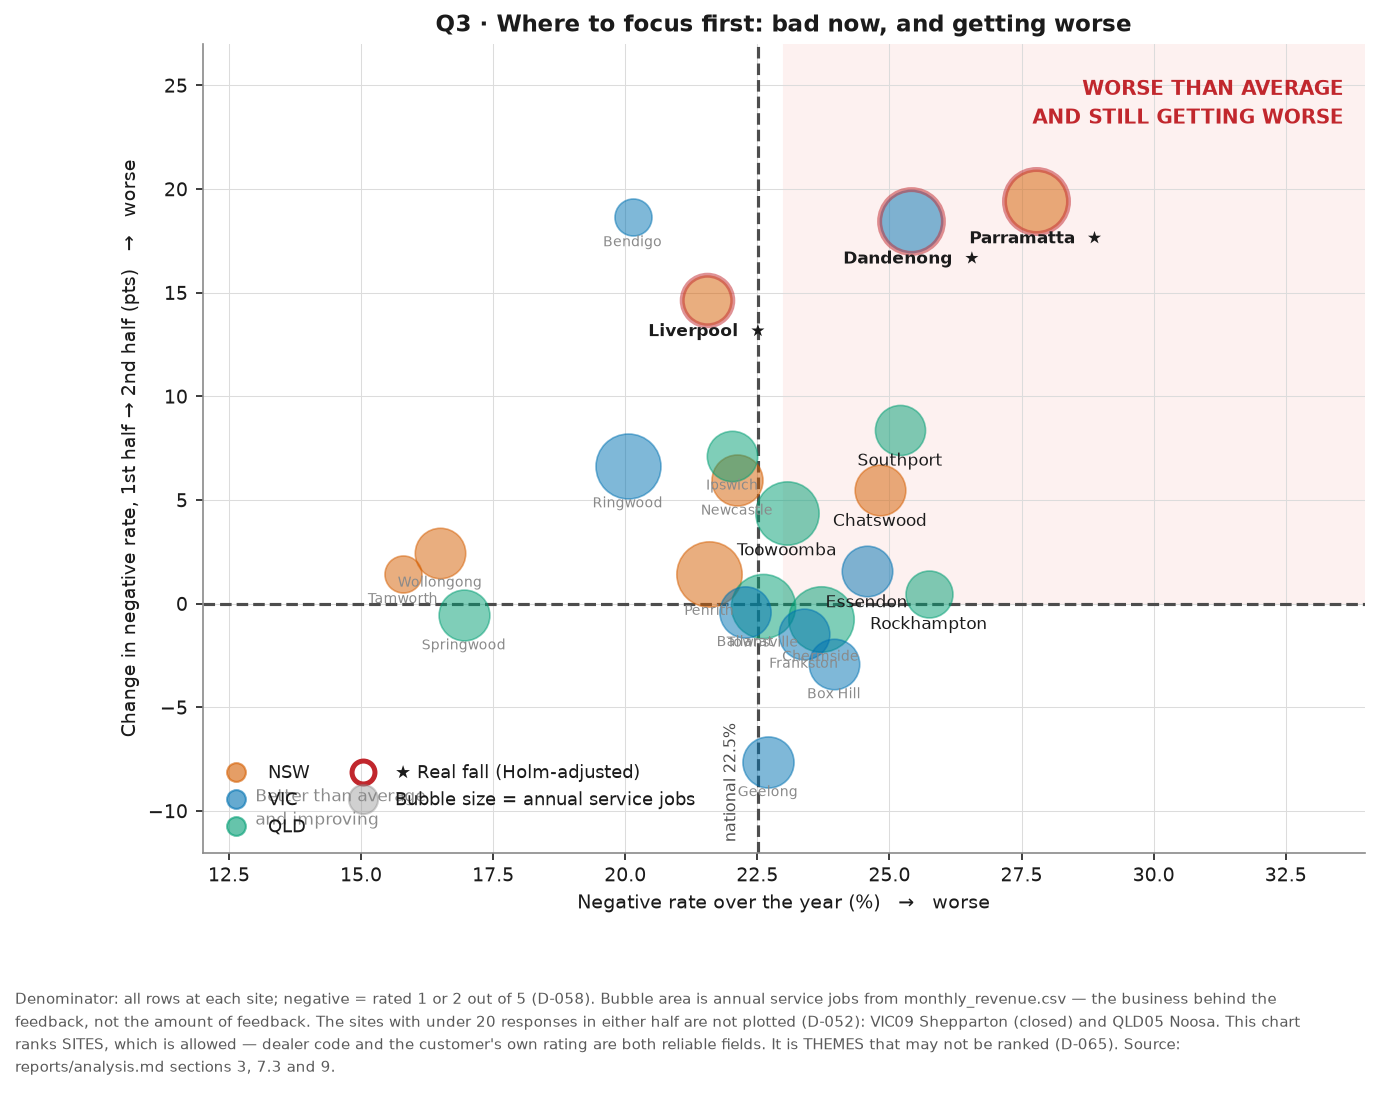
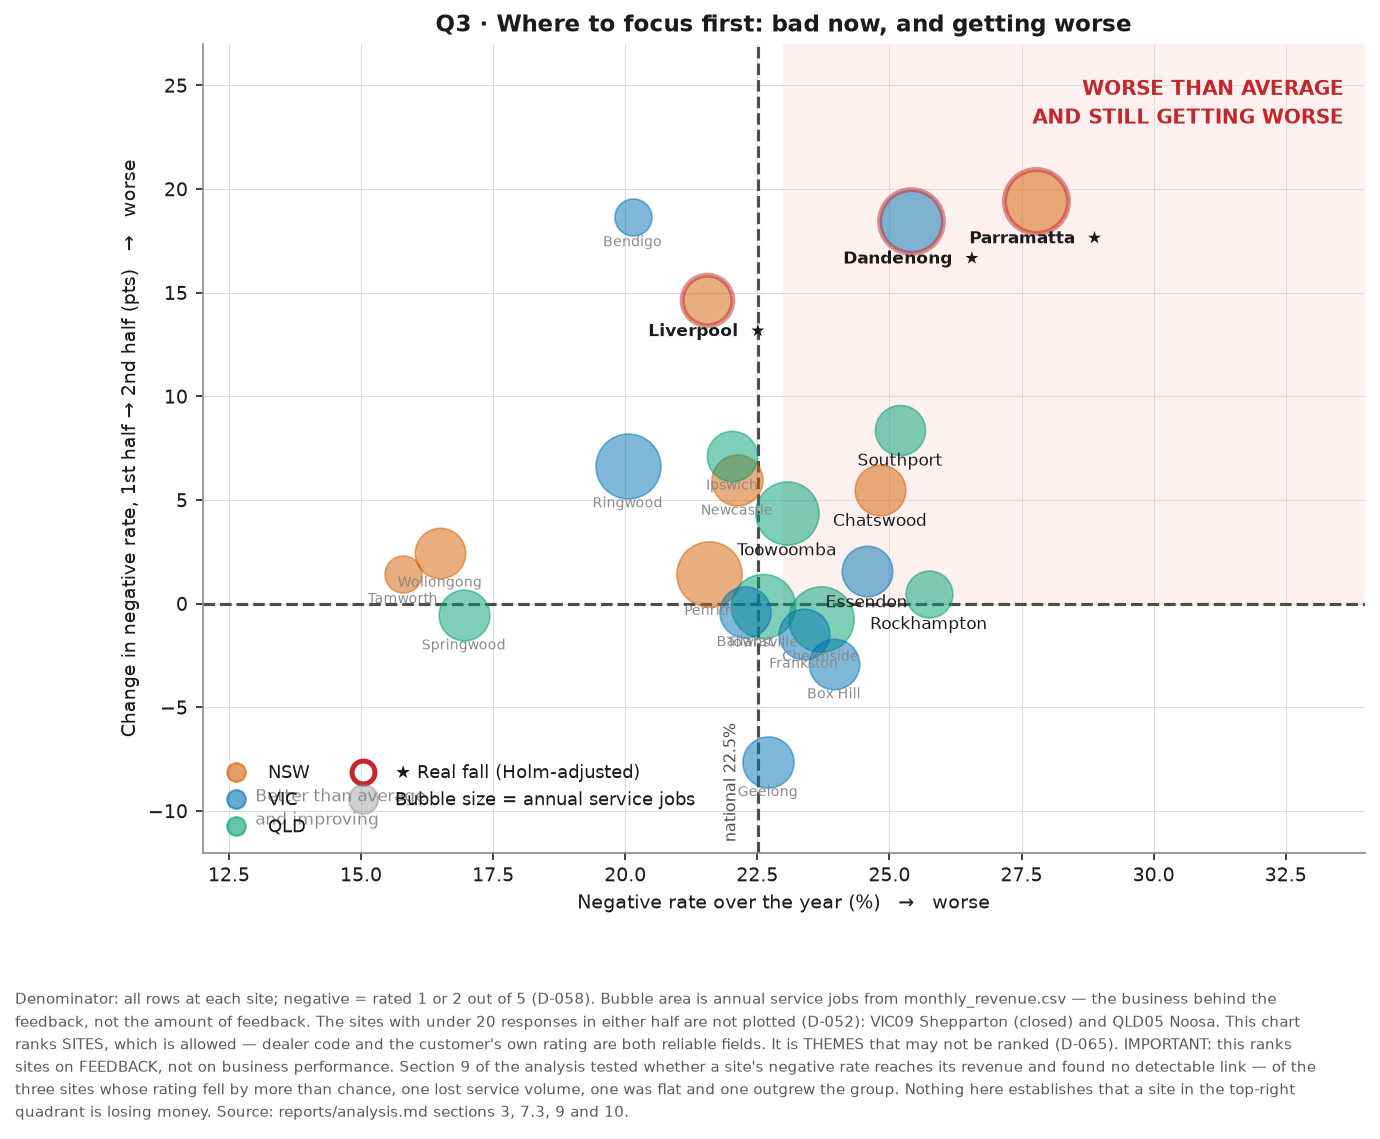
Chart the revenue null, and guard the focus chart against misreading it
Two panels in one figure, q3_feedback_vs_revenue.png, and both exist to STOP a
conclusion rather than support one.

Left: the correlation most people would reach for, across sites, r = +0.22 -
plotted first precisely because it is positive and it is site size. A busy
branch collects more feedback AND does more service work, so the across-sites
comparison cannot say a site is underperforming. The caption says so.

Right: the lag profile with 95% intervals. Every bar from -3 to +3 months
crosses zero except the same month, so this month's feedback predicts nothing
about next month's volume.

Scaled back from a planned four-panel figure on the owner's instruction: two
simple panels are enough to show whether a correlation exists, and the risk
being managed here is a false one, not an undersold one.

q3_where_to_focus.png ranks sites by negative rate and labels a quadrant
"worse than average and still getting worse", which is exactly the inference
the owner flagged as dangerous. Its footer now records that section 9 found no
detectable link between a site's negative rate and its revenue, that of the
three sites whose rating fell by more than chance one lost volume, one was flat
and one outgrew the group, and that nothing in the chart establishes a site in
that quadrant is losing money.

Also fixed: two red captions placed in axes coordinates landed in the same
strip as the wrapped footer, and a tight bounding box does not resolve that -
[…]

diff --git a/src/figures.py b/src/figures.py
@@ -15,6 +15,7 @@ should not be in the report:
 | `q2_trend_by_state.png` | the year's movement split VIC / NSW / QLD, quarterly |
 | `q2_sites_that_changed.png` | which individual sites moved, Holm-corrected across 23 tests |
 | `q3_where_to_focus.png` | bad now against getting worse, sized by the service business behind it |
+| `q3_feedback_vs_revenue.png` | is more feedback just more customers, and does it reach revenue |
 | `q3_coverage.png` | how much of the business this dataset can see at all |
 | `method_model_vs_owner.png` | how far the models can be trusted, and exactly where they disagree |
 
@@ -42,6 +43,7 @@ Usage:
 
 from __future__ import annotations
 
+import math
 import textwrap
 
 import matplotlib
@@ -53,6 +55,7 @@ import numpy as np
 import pandas as pd
 from matplotlib.lines import Line2D
 from matplotlib.patches import Patch
+from scipy import stats
 from sklearn.metrics import cohen_kappa_score, confusion_matrix
 
 from src.analyse import (
@@ -65,11 +68,14 @@ from src.analyse import (
     coverage_table,
     half_test,
     load,
+    revenue_lags,
+    revenue_panel,
     site_halves,
     state_halves,
     wilson_ci,
 )
 from src.analyse import KAPPA_FLOOR as FLOOR
+from src.analyse import _two_way_demean as two_way_demean
 from src.evaluate import ORDER, SCORE_CLASSES, SENTIMENT_CODES, llm_key, load_llm
 
 FIG_DIR = ROOT / "reports" / "figures"
@@ -722,9 +728,118 @@ def q3_where_to_focus(df: pd.DataFrame, revenue: pd.DataFrame) -> None:
         f"responses in either half are not plotted (D-052): {CLOSED_SITE} Shepparton (closed) "
         "and QLD05 Noosa. This chart ranks SITES, which is allowed — dealer code and the "
         "customer's own rating are both reliable fields. It is THEMES that may not be ranked "
-        "(D-065). Source: reports/analysis.md sections 3, 7.3 and 9.",
+        "(D-065). IMPORTANT: this ranks sites on FEEDBACK, not on business performance. "
+        "Section 9 of the analysis tested whether a site's negative rate reaches its revenue "
+        "and found no detectable link — of the three sites whose rating fell by more than "
+        "chance, one lost service volume, one was flat and one outgrew the group. Nothing "
+        "here establishes that a site in the top-right quadrant is losing money. "
+        "Source: reports/analysis.md sections 3, 7.3, 9 and 10.",
     )
     _save(fig, "q3_where_to_focus.png")
+
+
+def q3_feedback_vs_revenue(df: pd.DataFrame, revenue: pd.DataFrame) -> None:
+    """Two panels, and both of them exist to STOP a conclusion rather than support one.
+
+    Left: the correlation everyone reaches for is positive, and it is site size. A busy
+    branch collects more feedback and does more service work for reasons that have nothing
+    to do with how good it is, so the across-sites comparison cannot say a site is
+    underperforming. Comparing each site against its own monthly average flips the sign.
+
+    Right: even that within-site association is same-month only. It does not predict next
+    month, so it cannot support "this site's feedback is costing it business".
+    """
+    p = revenue_panel(df, revenue).dropna(subset=["neg"])
+    p["neg_pct"] = 100 * p["neg"]
+    w = two_way_demean(p, ["neg_pct", "service_jobs"])
+    raw_r, raw_p = stats.pearsonr(p["neg_pct"], p["service_jobs"])
+    win_r, win_p = stats.pearsonr(w["neg_pct"], w["service_jobs"])
+    lags = revenue_lags(revenue_panel(df, revenue))
+
+    fig, axes = plt.subplots(1, 2, figsize=(12.5, 6.6), gridspec_kw={"wspace": 0.26})
+
+    # --- left: the sign flip ------------------------------------------------
+    ax = axes[0]
+    for state in ["NSW", "VIC", "QLD"]:
+        s = p[p["state"] == state]
+        ax.scatter(s["neg_pct"], s["service_jobs"], s=16, color=STATE[state], alpha=0.45,
+                   edgecolor="none", label=state)
+    xs = np.linspace(p["neg_pct"].min(), p["neg_pct"].max(), 50)
+    fit = stats.linregress(p["neg_pct"], p["service_jobs"])
+    ax.plot(xs, fit.intercept + fit.slope * xs, color=BAD, lw=2.6,
+            label=f"r = {raw_r:+.2f}  (p = {raw_p:.1g})")
+    ax.set_xlabel("Negative rate in that dealer-month (%)")
+    ax.set_ylabel("Service jobs that month")
+    ax.grid(lw=0.5)
+    ax.set_axisbelow(True)
+    ax.legend(frameon=False, fontsize=8.5, loc="upper left")
+    ax.set_title("Comparing SITES: the slope is upwards", fontsize=10.5)
+    left_note = (
+        "…and it is nonsense. A busy branch collects more feedback AND does more\n"
+        "service work. This compares Chermside with Noosa, so it measures size."
+    )
+
+    # --- right: the lag profile --------------------------------------------
+    ax = axes[1]
+    ks = list(range(-3, 4))
+    rs = lags["r"].to_list()
+    ns = lags["dealer-months"].to_list()
+    los, his = [], []
+    for r, n in zip(rs, ns, strict=False):
+        z, se = math.atanh(r), 1 / math.sqrt(n - 3)
+        los.append(math.tanh(z - 1.96 * se))
+        his.append(math.tanh(z + 1.96 * se))
+    for k, r, lo, hi in zip(ks, rs, los, his, strict=False):
+        sig = lo > 0 or hi < 0
+        ax.plot([k, k], [lo, hi], color=BAD if sig else MUTED, lw=2.4, zorder=2)
+        ax.plot(k, r, "o", ms=10, color=BAD if sig else "white",
+                mec=BAD if sig else MUTED, mew=2, zorder=3)
+    ax.axhline(0, color=INK, lw=1.4)
+    ax.axvspan(-3.6, -0.5, color="#f2f2f2", zorder=0)
+    ax.set_xticks(ks)
+    ax.set_xticklabels(["−3", "−2", "−1", "same\nmonth", "+1", "+2", "+3"])
+    ax.set_xlim(-3.6, 3.6)
+    ax.set_xlabel("Service jobs, months before ← → months after the feedback")
+    ax.set_ylabel("Correlation with the negative rate, within site")
+    ax.grid(axis="y", lw=0.5)
+    ax.set_axisbelow(True)
+    ax.set_title("Comparing a SITE WITH ITSELF: only the same month", fontsize=10.5)
+    ax.annotate(
+        f"{win_r:+.2f}\np = {win_p:.3f}",
+        xy=(0, rs[3]), xytext=(0.72, rs[3] - 0.07), fontsize=9, fontweight="bold", color=BAD,
+        ha="left", linespacing=1.4,
+    )
+    right_note = (
+        "Bars are 95% intervals. Every one except the same month crosses zero,\n"
+        "so this month's feedback predicts NOTHING about next month's volume."
+    )
+
+    # Both red notes go in FIGURE coordinates, not axes coordinates. Placed below an axis
+    # they land in the same strip the wrapped footer occupies, and a tight bounding box
+    # does not resolve that overlap - it just grows the canvas around it.
+    fig.subplots_adjust(bottom=0.30)
+    for x, note in [(0.30, left_note), (0.745, right_note)]:
+        fig.text(x, 0.15, note, ha="center", va="top", fontsize=8.2, color=BAD,
+                 fontweight="bold", linespacing=1.5)
+
+    fig.suptitle(
+        "Q3 · Does negative feedback reach the revenue? No link is detectable",
+        fontweight="bold", fontsize=12.5, y=1.02,
+    )
+    _footer(
+        fig,
+        f"Denominator: {len(p)} dealer-months — 24 sites × 12 months, less {CLOSED_SITE}'s six "
+        f"post-closure months, which the revenue file records as exact zeros. 'Within site' "
+        f"removes each dealer's own average and each month's national average, so only a "
+        f"site's variation against its own baseline is left. THIS FIGURE IS A GUARD, NOT A "
+        f"FINDING: it is here so no one reads the left-hand panel as evidence that a site is "
+        f"underperforming. The same-month association is worth about 8 service jobs in a "
+        f"month of 709 and is equally consistent with a struggling branch completing fewer "
+        f"jobs AND generating more complaints. Caveats in analysis.md section 9.4: twelve "
+        f"months is shorter than a service interval, and only 33% of the variance in a "
+        f"monthly negative rate is signal rather than sampling noise.",
+    )
+    _save(fig, "q3_feedback_vs_revenue.png")
 
 
 def q3_coverage(df: pd.DataFrame, revenue: pd.DataFrame) -> None:
@@ -1022,6 +1137,7 @@ def main() -> int:
     q2_trend_by_state(df)
     q2_sites_that_changed(df)
     q3_where_to_focus(df, revenue)
+    q3_feedback_vs_revenue(df, revenue)
     q3_coverage(df, revenue)
     method_model_vs_owner(df)
     print(

diff --git a/README.md b/README.md
@@ -587,7 +587,7 @@ null result strengthens the decision to cut the value model rather than weakenin
 
 ### Figures and gate G9
 
-`src/figures.py` writes eight PNGs, named for the business question each answers, and
+`src/figures.py` writes nine PNGs, named for the business question each answers, and
 **neither report embeds any of them** because gate G9 makes every chart the owner's to
 approve first. Both reports carry a figure index naming where each belongs.
 
@@ -599,8 +599,11 @@ approve first. Both reports carry a figure index naming where each belongs.
 | `q2_trend_by_state.png` | the year's movement split VIC / NSW / QLD, quarterly with intervals |
 | `q2_sites_that_changed.png` | which sites moved, Holm-corrected across 23 tests |
 | `q3_where_to_focus.png` | negative rate against its own change, bubble-sized by annual service jobs |
+| `q3_feedback_vs_revenue.png` | the across-sites correlation and why it is site size, then the lag profile that shows no predictive link |
 | `q3_coverage.png` | feedback per transaction, nationally and per site |
 | `method_model_vs_owner.png` | both confusion matrices, the three kappas against the committed floor, and what the LLM was used for |
+
+**Two of the nine exist to prevent a conclusion rather than support one.** `q3_feedback_vs_revenue.png` shows the naive across-sites correlation first, because it is positive and it is site size, and a reader who has not seen that cannot judge the rest; its footer says in terms that it is a guard, not a finding. `q3_where_to_focus.png` ranks sites on feedback, so its footer records that section 9 found no link between a site's negative rate and its revenue, and that nothing in the chart establishes a site in the top-right quadrant is losing money.
 
 Three rules are enforced in the plotting code rather than in the captions. **The theme chart
 is alphabetical and prints the 44.1% agreement on its own face**, so a sorted bar chart cannot
@@ -717,7 +720,7 @@ Everything in PLAN.md section 2 is now delivered. What remains is checking, not 
 | # | Item | Status at freeze |
 |---|---|---|
 | 1 | **Independent verifier** — fresh agent, clean clone, `make all`, every reported number checked against the code | **Not done.** The single most valuable outstanding item (D-017, Checkpoint 5). `reports/evaluation.md` already records its own D-017 exception: the agent that wrote `src/classify.py` wrote the evaluation too, because the freeze arrived first |
-| 2 | **Gate G9 — the owner approves each of the eight charts** before it enters a report | **Not done.** The PNGs exist in `reports/figures/`; neither report embeds any of them, and both carry a figure index instead |
+| 2 | **Gate G9 — the owner approves each of the nine charts** before it enters a report | **Not done.** The PNGs exist in `reports/figures/`; neither report embeds any of them, and both carry a figure index instead |
 | 3 | **Checkpoint 5, part 1 — the owner recomputes headline numbers** | **Done, 30 Oct 2026.** 14 published figures recomputed from the reviewer export by a route that imports nothing from `src/`; all 14 match. Evidence: [reports/checkpoint5_recompute.md](reports/checkpoint5_recompute.md) |
 | 4 | **Checkpoint 5, part 2 — the owner rewrites the business report's recommendations in their own voice** | **Not done.** `reports/business_report.md` is marked DRAFT for exactly this |
 | 5 | **Industry benchmarks for the value model.** `reports/benchmarks.md` was written but never reviewed, and D-025 is unset, so the value model is cut and the gap is stated in both reports | Owner's call; cut-list item 1 for Wave 5 |

diff --git a/reports/business_report.md b/reports/business_report.md
@@ -337,7 +337,7 @@ shows it in one picture. The four things that most affect how you read the numbe
 
 ### Figures
 
-Eight charts are held in `reports/figures/`, named for the question each answers. **They are
+Nine charts are held in `reports/figures/`, named for the question each answers. **They are
 not embedded above, because every chart needs sign-off before it enters a report** (gate G9).
 Once approved they belong at these points:
 
@@ -349,5 +349,6 @@ Once approved they belong at these points:
 | `q2_trend_by_state.png` | the year's movement split VIC / NSW / QLD | §1 and §3, top |
 | `q2_sites_that_changed.png` | which sites moved by more than chance | §3, "By individual site" |
 | `q3_where_to_focus.png` | bad now against getting worse, sized by service volume | §4, top |
+| `q3_feedback_vs_revenue.png` | whether more feedback is just more customers, and whether it reaches revenue | §5, top |
 | `q3_coverage.png` | how much of the business this dataset sees | §4, second recommendation |
 | `method_model_vs_owner.png` | where the models disagree with a human, and by how much | §7 |
